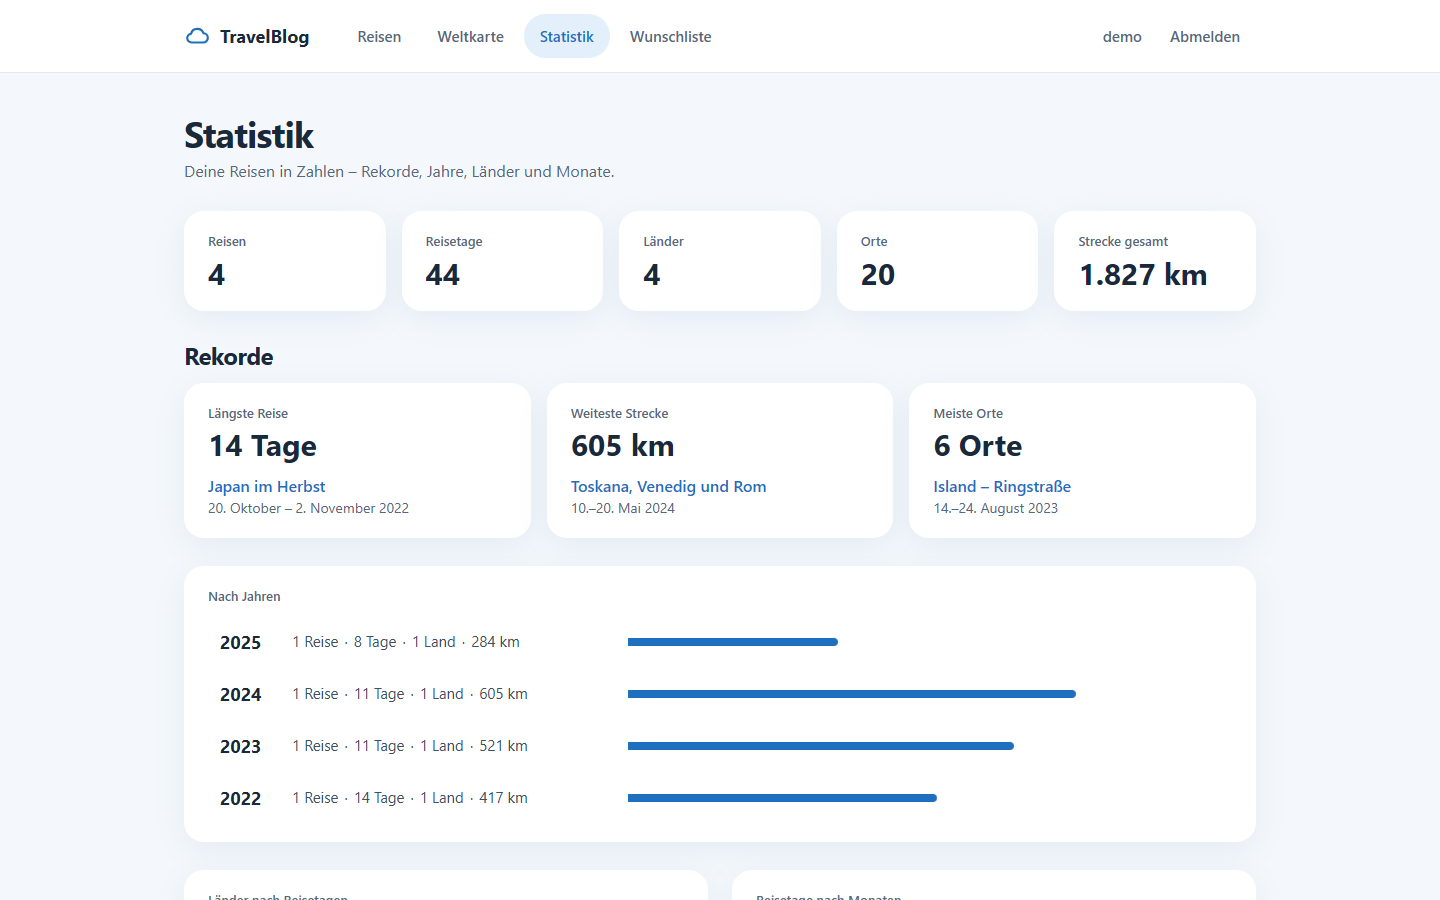
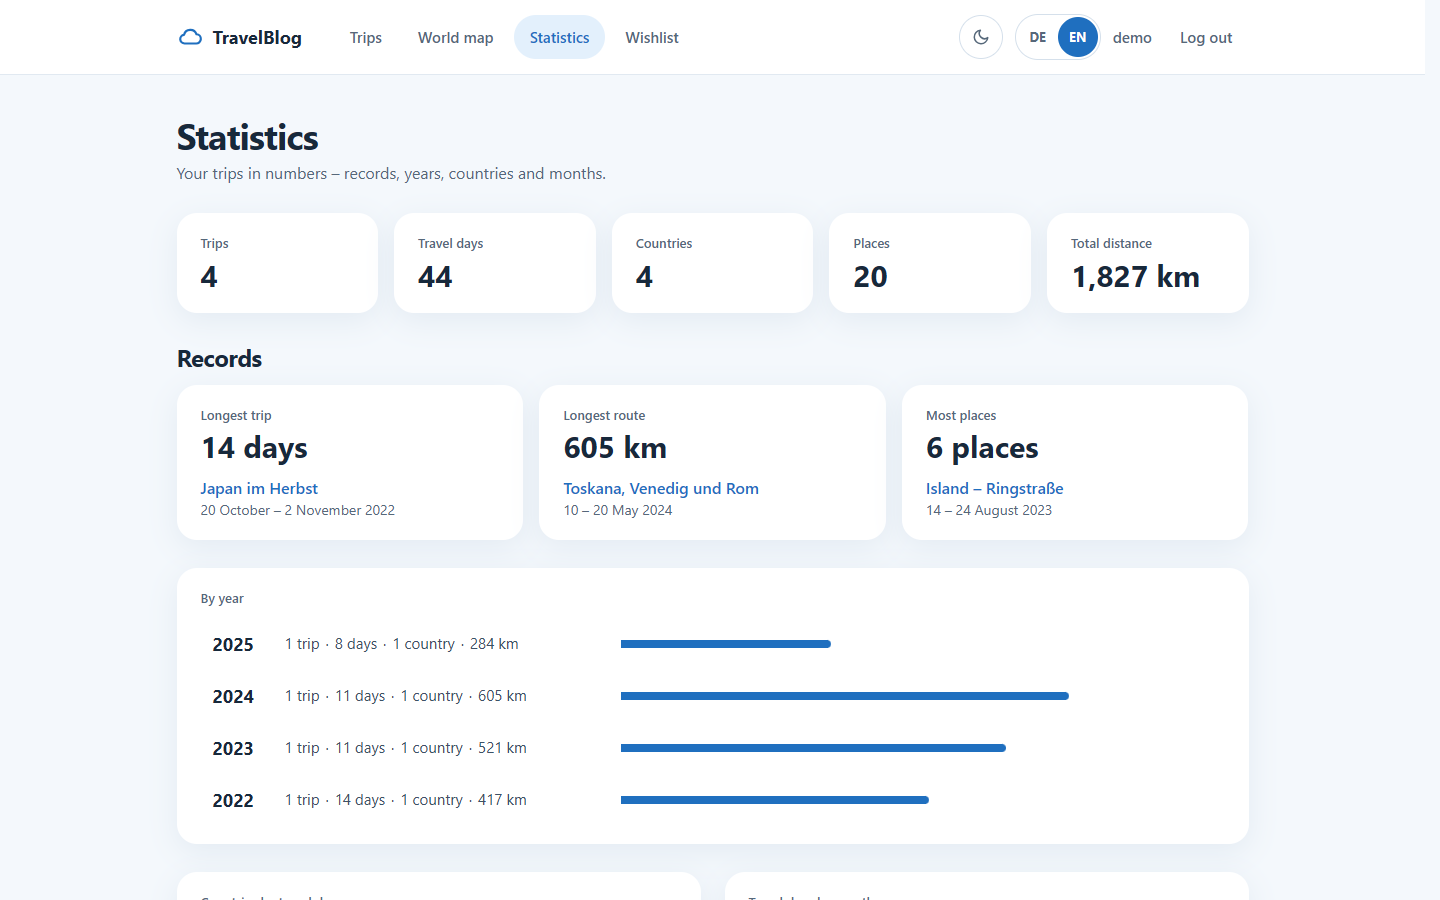
Update README with new screenshots and features

diff --git a/README.md b/README.md
@@ -16,7 +16,7 @@ TravelBlog is a full-stack group project of three developers, **built in 10 work
 bootcamp: a Spring Boot REST API with MongoDB, a React single-page app with interactive maps, and a CI/CD pipeline that
 tests, analyzes, and deploys every change.
 
-![Trip overview](docs/screenshots/trips.png)
+![Trip overview in the light and the dark design](docs/screenshots/light-dark.png)
 
 ## Try it live
 
@@ -37,30 +37,40 @@ lets you try it in the browser: log in with `POST /api/auth/login`, copy the tok
 > minute; after that it is fast. If the server falls asleep while the app is open, the app shows a note while it wakes
 > up.
 
-The user interface is in German and English: switch with **DE | EN** in the top right corner.
+The user interface is in German and English, in a light and a dark design: switch with **DE | EN** and the sun / moon
+button in the top right corner.
 
 ## Highlights
 
-- **10 working days, 3 developers, 40+ reviewed pull requests:** feature branches, code review by a teammate, and a
+- **10 working days, 3 developers, 45+ reviewed pull requests:** feature branches, code review by a teammate, and a
   protected `main` branch
 - **Continuous deployment:** every merge is tested, packaged as a Docker image, and live on Render within minutes
-- **140+ automated backend tests** with MockMvc and an embedded MongoDB; coverage measured with JaCoCo
+- **150+ automated backend tests** with MockMvc and an embedded MongoDB; coverage measured with JaCoCo
 - **SonarQube Quality Gate on every pull request**, for the backend and the frontend
 - **20 REST endpoints**, secured with Spring Security and JWT and documented with OpenAPI / Swagger UI; every user
   sees and changes only their own data
 - **Interactive maps** with Leaflet: the route of each trip and a world map of all visited and wished-for countries
 - **Three external services** integrated without API keys: OpenStreetMap, Nominatim place search, and Wikipedia
-- **Polished details:** photo upload with gallery and cover photo, skeleton loading, a demo account with sample data
+- **Two languages, two designs:** German and English (also error messages, place search, and Wikipedia), light and
+  dark mode
+- **Polished details:** photo upload with gallery and cover photo, skeleton loading, a note while the server wakes up,
+  link previews for LinkedIn and others, a demo account with sample data
 
 ## Screenshots
 
-| Trip with route map | Stops with photos and Wikipedia |
+The screenshots show the English interface of the demo account.
+
+| Trip overview | Trip with route map |
 |---|---|
-| ![Trip detail with the route on a map](docs/screenshots/trip-detail.png) | ![Stops with photos and a Wikipedia summary](docs/screenshots/trip-photos.png) |
-| **World map: visited countries and wishes** | **Statistics** |
-| ![World map with visited and wished-for countries](docs/screenshots/world-map.png) | ![Statistics with records and years](docs/screenshots/statistics.png) |
-| **Wishlist** | |
-| ![Wishlist with priorities and "plan a trip"](docs/screenshots/wishlist.png) | |
+| ![Trip overview with photos, filters, and tags](docs/screenshots/trips.png) | ![Trip detail with the route on a map](docs/screenshots/trip-detail.png) |
+| **Stops with photos and Wikipedia** | **World map: visited countries and wishes** |
+| ![Stops with photos and a Wikipedia summary](docs/screenshots/trip-photos.png) | ![World map with visited and wished-for countries](docs/screenshots/world-map.png) |
+| **Statistics** | **Wishlist** |
+| ![Statistics with records and years](docs/screenshots/statistics.png) | ![Wishlist with priorities and "plan a trip"](docs/screenshots/wishlist.png) |
+| **Dark mode** | **API documentation (Swagger UI)** |
+| ![Trip with route map in the dark design](docs/screenshots/dark-mode.png) | ![Swagger UI with all REST endpoints](docs/screenshots/swagger.png) |
+| **Note while the server wakes up** | |
+| ![A note at the bottom of the login page while the server wakes up](docs/screenshots/server-waking-up.png) | |
 
 ## Features
 
@@ -246,7 +256,8 @@ GridFS, the MongoDB storage for files, with the owner in their metadata.
 |---|---|
 | `pages/` | One component per route: trips, trip detail, world map, statistics, wishlist, login, registration |
 | `components/` | Reusable parts such as `TripMap`, `WorldMap`, `TripDialog`, `PhotoLightbox`, `WikipediaInfo` |
-| `api/` | axios calls per resource; `client.ts` adds the token and handles `401` |
+| `api/` | axios calls per resource; `client.ts` adds the token and the language, handles `401`, and notices slow answers |
+| `i18n/` | All texts of the user interface, German and English side by side (`texts.ts`), and the chosen language |
 | `utils/`, `types/` | Pure helper functions (filters, dates, countries) and TypeScript types of the API |
 
 The Vite dev server forwards `/api` to the backend, so the frontend uses the same relative URLs locally and in
@@ -291,7 +302,7 @@ documents were kept up to date with every pull request.
 TravelBlog/
 ├── backend/                 Spring Boot application
 │   └── src/main/java/org/example/backend/
-│       ├── config/          clients for Nominatim and Wikipedia
+│       ├── config/          clients for Nominatim and Wikipedia, API documentation
 │       ├── controller/      REST endpoints under /api
 │       ├── dto/             request and response records
 │       ├── exception/       uniform error answers
@@ -300,7 +311,7 @@ TravelBlog/
 │       ├── security/        Spring Security and the JWT filter
 │       └── service/         business logic
 ├── frontend/                React application (Vite)
-│   └── src/                 pages, components, api, utils, types
+│   └── src/                 pages, components, api, i18n, utils, types
 ├── docs/                    requirements, architecture, deployment, screenshots
 ├── .github/workflows/       CI, SonarQube analysis, deployment
 └── Dockerfile               one image with backend and frontend
@@ -435,5 +446,5 @@ The frontend has no automated tests (not part of the course); lint, type check, 
 - Map data © [OpenStreetMap](https://www.openstreetmap.org/copyright) contributors; place search by
   [Nominatim](https://nominatim.org/)
 - Country borders from [Natural Earth](https://www.naturalearthdata.com/) (public domain)
-- Place summaries from [Wikipedia](https://de.wikipedia.org/) (CC BY-SA 4.0)
+- Place summaries from the German and English [Wikipedia](https://www.wikipedia.org/) (CC BY-SA 4.0)
 - Photos of the demo trips from [Unsplash](https://unsplash.com/) (Unsplash License)
